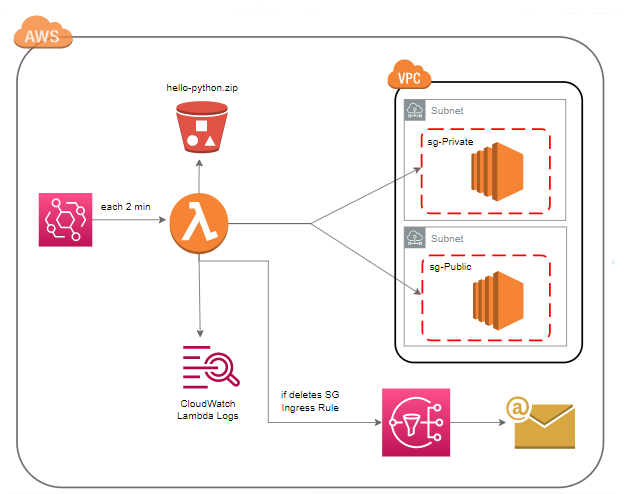
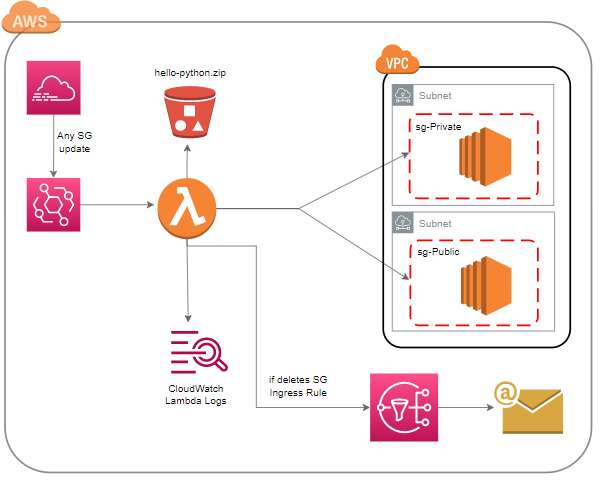
adição do cloudtrail

Changed region(s): [[0.0, 0.0, 0.9884, 0.9917]]

diff --git a/python/index.py b/python/index.py
@@ -48,6 +48,7 @@ def delete_sg_rule(sg_id, sgr_id):
         GroupId=sg_id,
         SecurityGroupRuleIds=[sgr_id]
     )
+    print("sg rule", sgr_id, "deleted")
     
 def send_sns_message(sg_id, sgr_id, sgr_cidr, sgr_prot, sgr_fport, sgr_tport):
     message={
